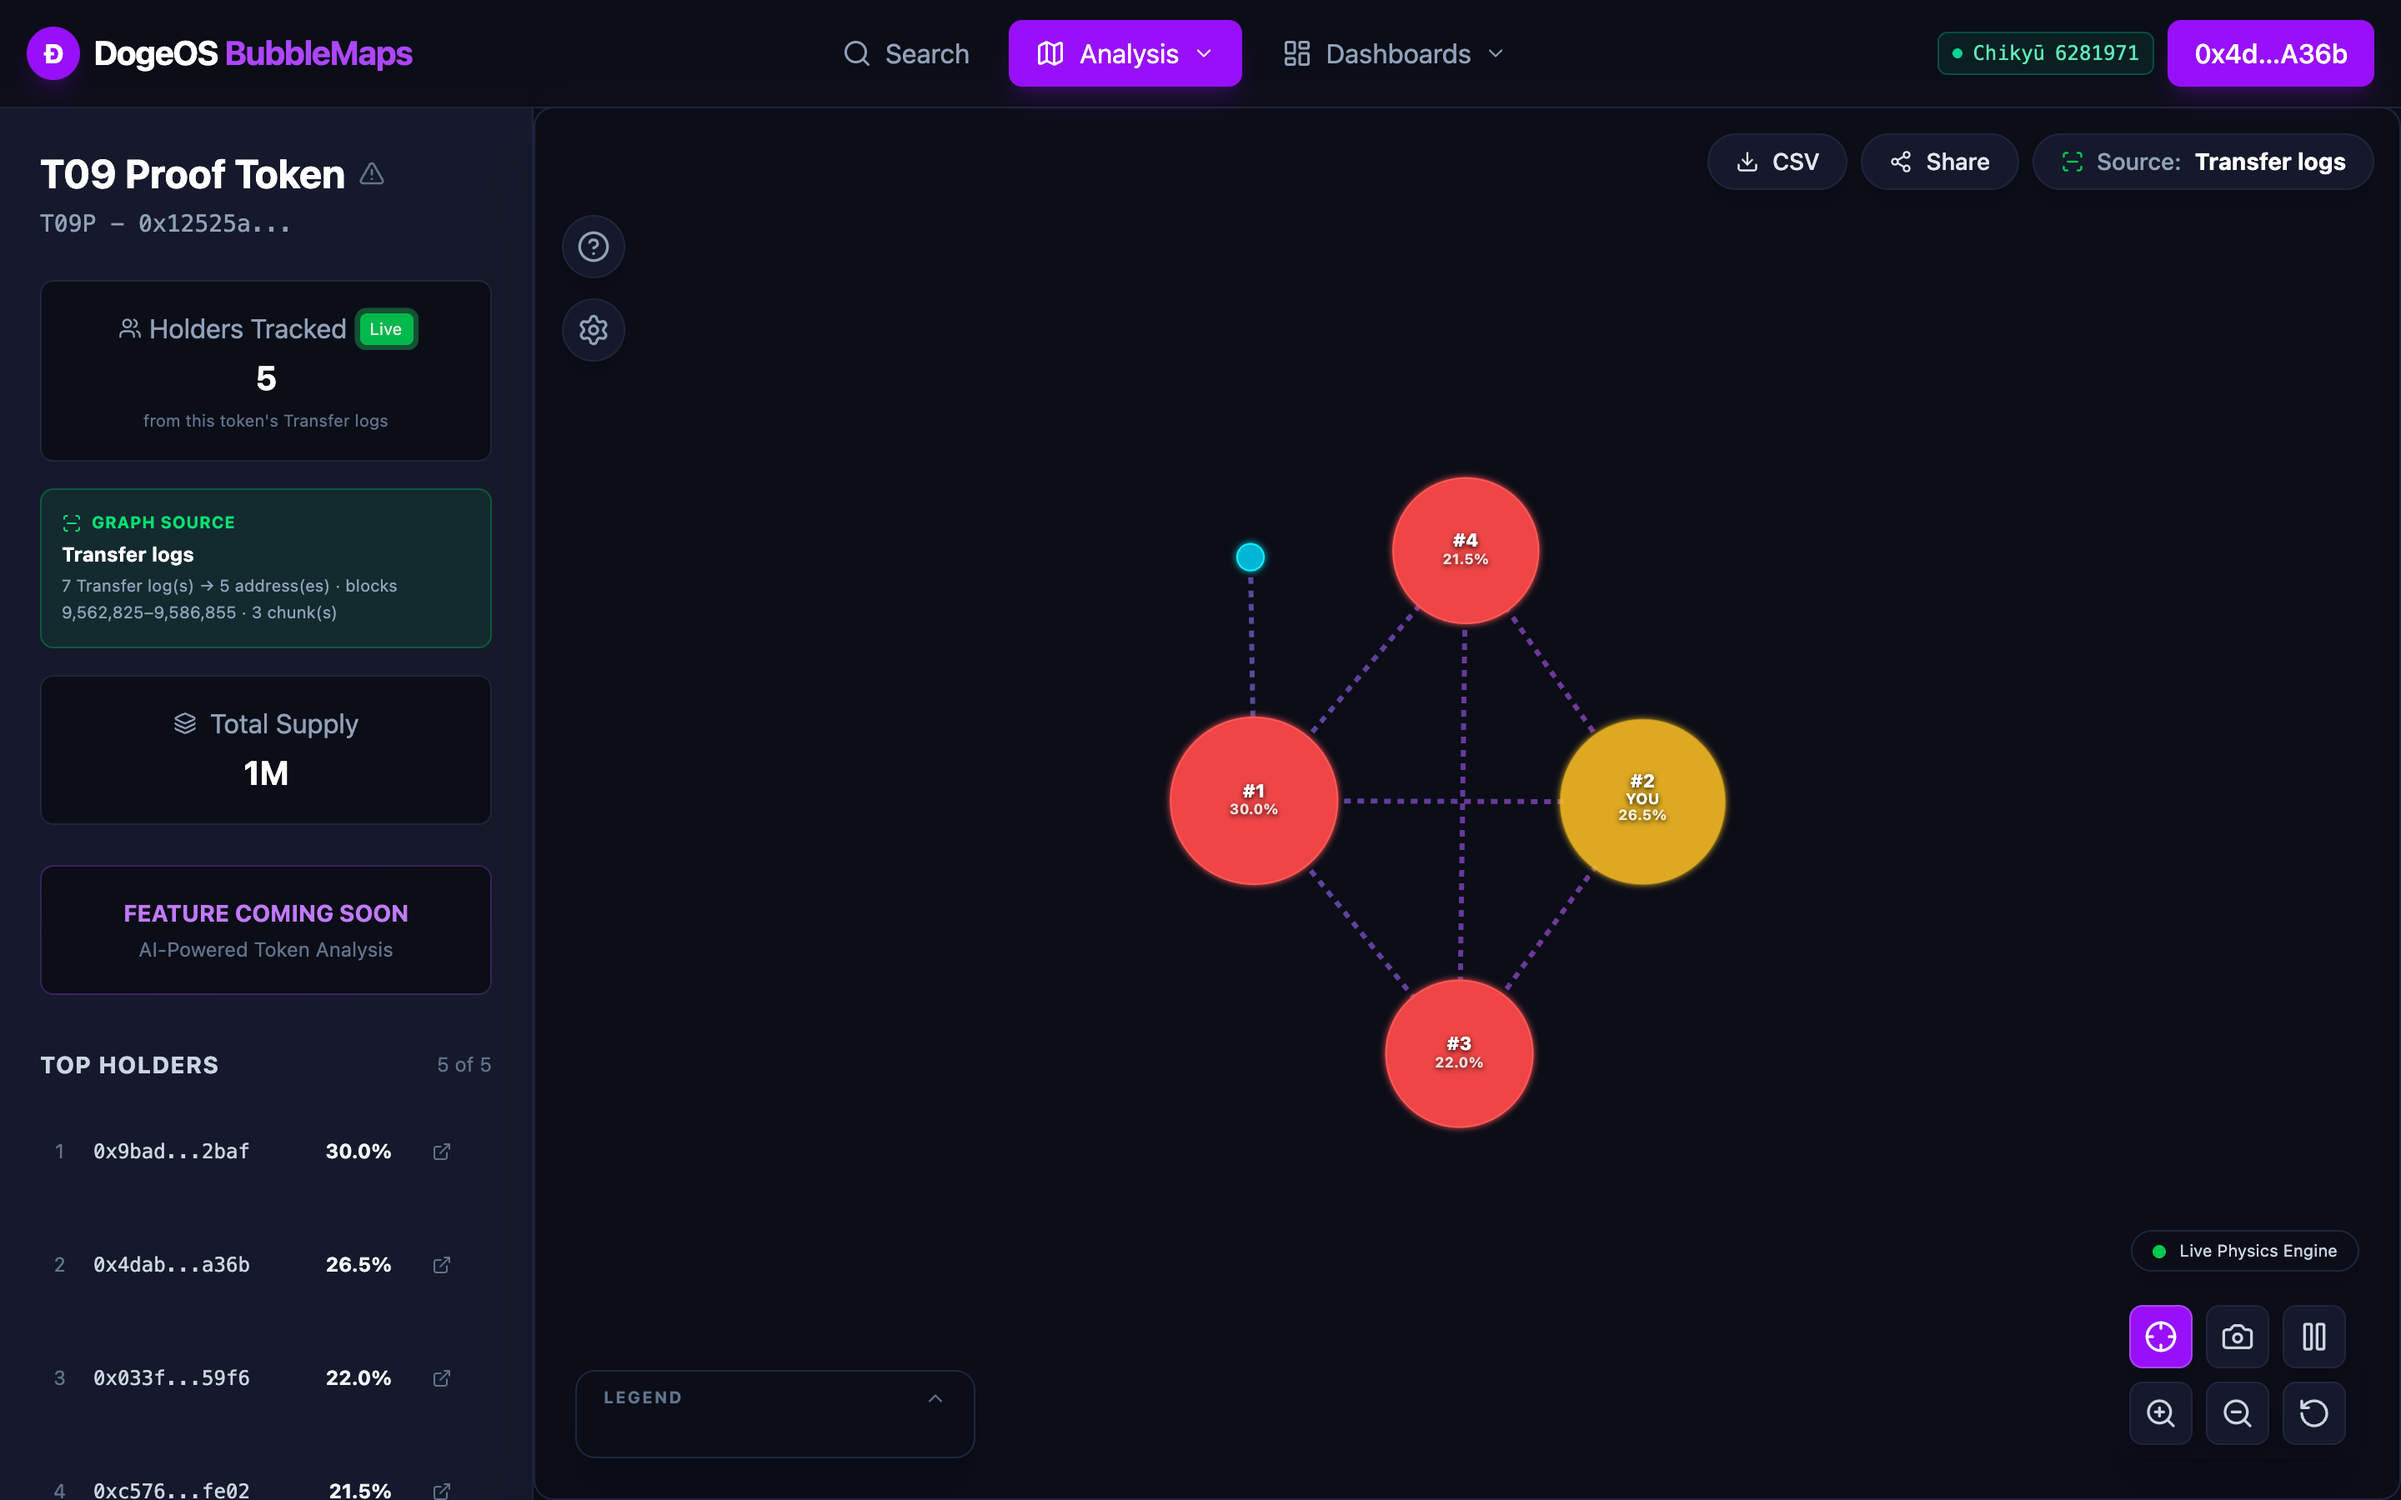
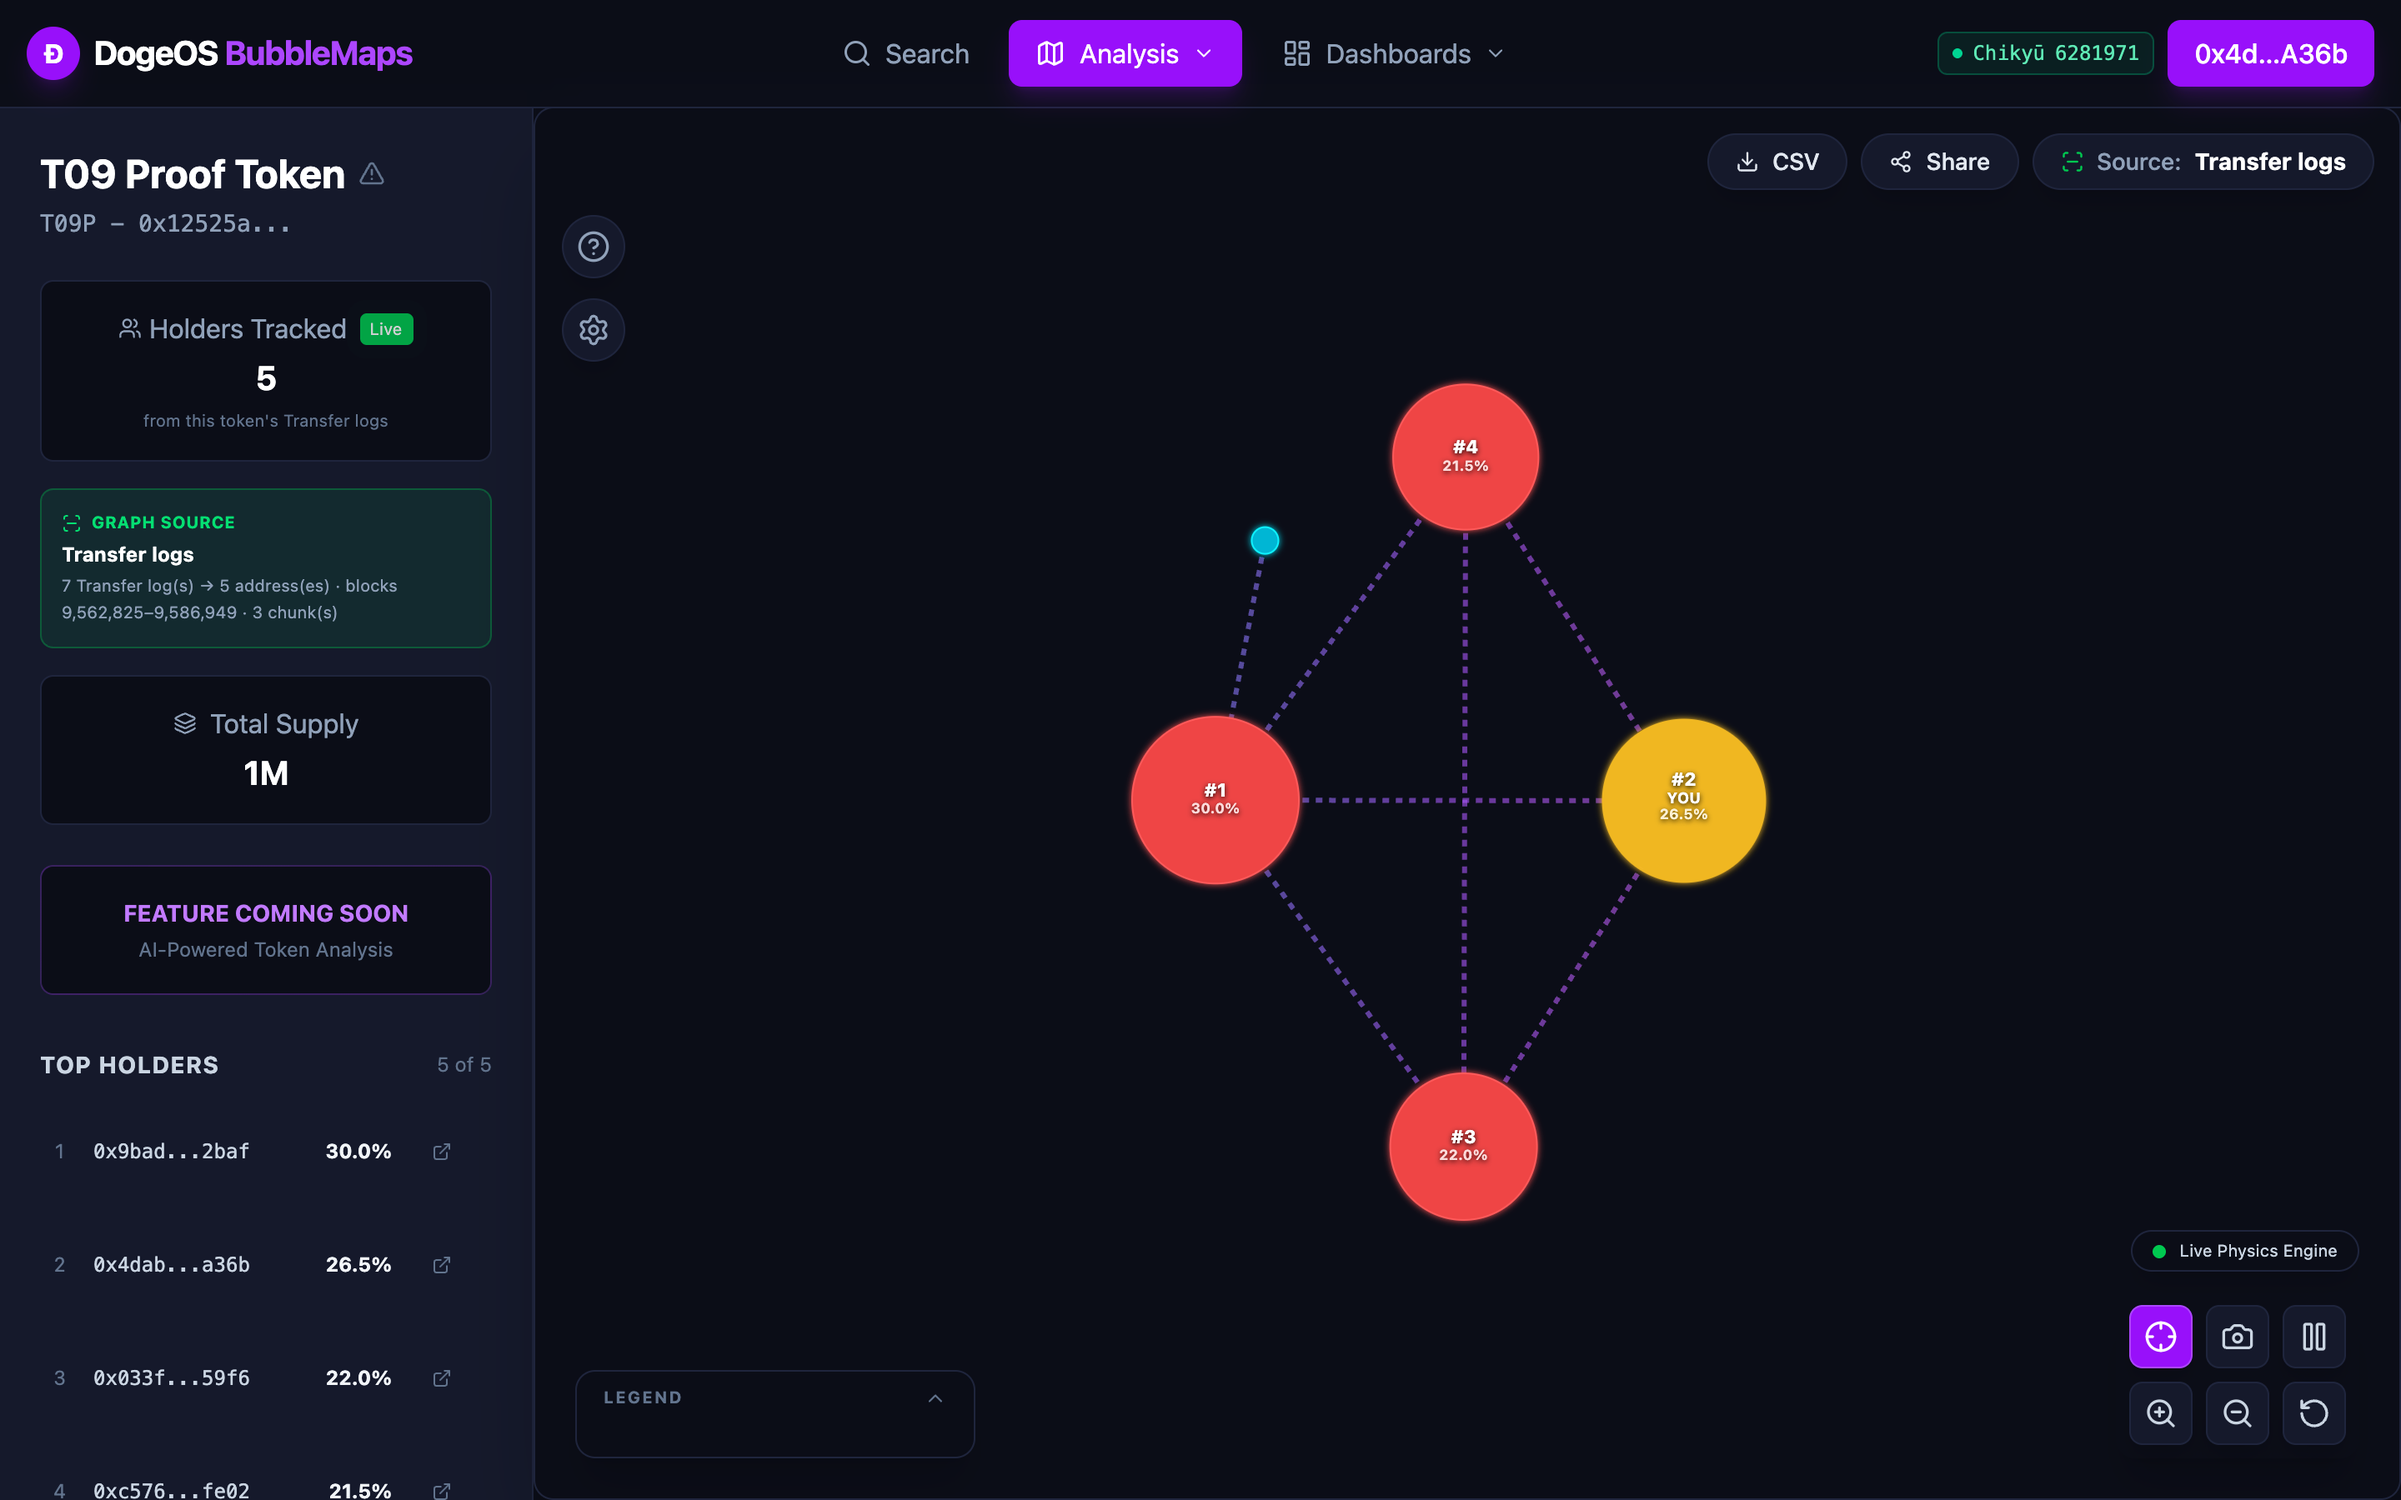
docs(verify): refresh the T-04 proof captures on the current tree
Re-ran scripts/dogeos-verify/t04/render-graph-proof.mjs against a build of the
current tree (which now also carries the WalletConnect commit): 16/16 checks
pass, the screenshots and t04-render-assertions.json are the ones this run
produced (head 9,586,949). The README drops the stale exact toBlock so the doc
does not drift every time the proof is re-run.

diff --git a/docs/verification/README.md b/docs/verification/README.md
@@ -22,7 +22,7 @@ Chain: DogeOS Chikyū testnet, id 6281971, RPC https://rpc.testnet.dogeos.com/
 | Wallet-flow/guard assertions                   | `wallet-guard-probe.json`                                                      | Machine-readable output of all 26 checks (6 scenarios, incl. no-wallet baseline) from `scripts/dogeos-verify/wallet-guard-proof.mjs`; 0 failed                                                                                                                       |
 | Scanner transcript (holders, links, transfers) | `scan-transcript.txt`                                                          | Output of `scripts/dogeos-verify/run-scan.sh` running THIS APP'S `services/evmRPC.ts` against Chikyū                                                                                                                                                                 |
 | Graph payload                                  | `mwdoge-graph.json`, `such-graph.json`                                         | nodes/links built from live `Transfer` logs: mWDOGE 411 nodes / 643 links from 1,654 logs in a 40,000-block window; SUCH 2 nodes / 2 links / 339 wallet transfers                                                                                                    |
-| Bubble map rendered from Transfer logs (T-04)  | `t04-01-graph-from-logs-t09p.png`                                              | Analysis view for T09P with the "Graph source → Transfer logs" card: **7 Transfer log(s) → 5 address(es) · blocks 9,562,825–9,586,641 · 3 chunk(s)**, bubbles and edges from those logs. 16/16 checks in `t04-render-assertions.json`                                |
+| Bubble map rendered from Transfer logs (T-04)  | `t04-01-graph-from-logs-t09p.png`                                              | Analysis view for T09P with the "Graph source → Transfer logs" card: **7 Transfer log(s) → 5 address(es) · blocks 9,562,825–head · 3 chunk(s)**, bubbles and edges from those logs. 16/16 checks in `t04-render-assertions.json`                                     |
 | Fallback is labelled, not silent (T-04)        | `t04-03-fallback-holder-list.png`, `t04-05-holder-api-blocked-empty-state.png` | LINK `0xe5e3…FD54`: log scan returns `EMPTY STATE` (5 chunks, no Transfer logs), so the card reads "Explorer holders (fallback)" and the empty reason is on screen. With the holder endpoint blocked the same token falls to "No data" — the empty panel in `t04-05` |
 
 ## Wallet flow and chain guard (T-07)
